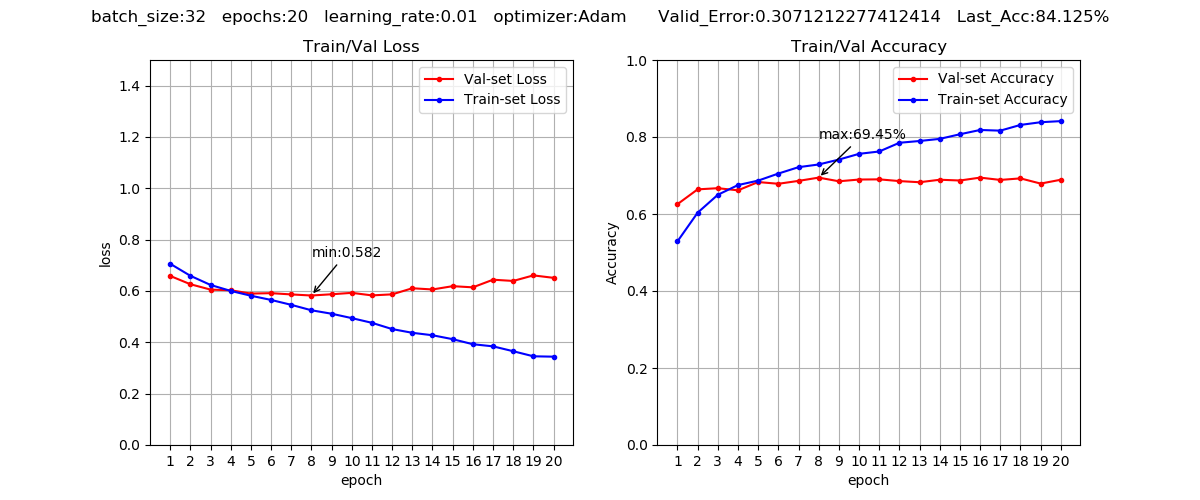
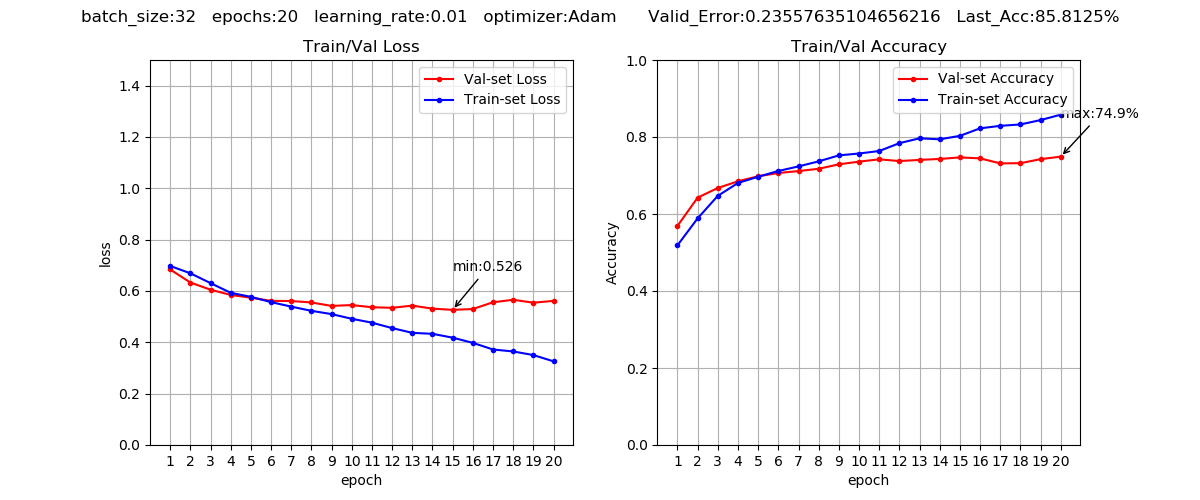
Last Accuracy: 0.858125 Valid error: 0.23557635104656216

diff --git a/main.py b/main.py
@@ -25,8 +25,8 @@ freq = 440  # Hz
 
 config = tf.ConfigProto()
 
-#config.gpu_options.allow_growth = True
-config.gpu_options.per_process_gpu_memory_fraction = 0.8
+config.gpu_options.allow_growth = True
+#config.gpu_options.per_process_gpu_memory_fraction = 0.4
 
 session = tf.Session(config=config)
 
@@ -84,8 +84,8 @@ class ModelMgr():
         train_y = self.y_train.reshape((e,f))
 
 
-        rf = RandomForestRegressor()
-        rf = rf.fit(train_x, train_y)
+        # rf = RandomForestRegressor()
+        # rf = rf.fit(train_x, train_y)
 
         history = model.fit(self.x_train, self.y_train,
                             batch_size=hp['batch_size'],
@@ -130,242 +130,31 @@ class ModelMgr():
         optimizer = Adam(lr=1e-3)
         '''
         return hyper
-    # def get_model(self):
-    #     from keras.models import Model
-    #     from keras.layers import Input
-    #     from keras import layers
-    #     i1= Input(shape=(32,32,1))
-    #     nDropout = 0.25
-    #
-    #     model = Sequential()
-    #     model.add(Conv2D(32, (3, 3), padding='same', input_shape=self.x_train.shape[1:], activation='relu'))
-    #     model.add(Dropout(nDropout))
-    #
-    #     model.add(MaxPooling2D(pool_size=(2, 2)))
-    #     model.add(Dropout(nDropout))
-    #
-    #
-    #
-    #     # model.add(Dense(len(self.target_class)))
-    #     # model.add(Activation('softmax'))
-    #     model = Flatten()(model)
-    #
-    #     model1 = Model(inputs=i1, outputs=model)
-    #
-    #     i2 = Input(shape=(32, 32, 1))
-    #     nDropout = 0.5
-    #
-    #     nUnit = 1024
-    #     model.add(Flatten())
-    #
-    #     model.add(Dense(128, activation='relu', kernel_initializer='glorot_uniform', bias_initializer='glorot_uniform'))
-    #     model.add(Dropout(nDropout))
-    #     model.add(Dense(128, activation='relu', kernel_initializer='glorot_uniform', bias_initializer='glorot_uniform'))
-    #     model.add(Dropout(nDropout))
-    #     model = Flatten()(model)
-    #
-    #     model2 = Model(inputs=i2, outputs=model)
-    #
-    #
-    #     merge = layers.concatenate([model1(i1), model2(i2)])
-    #     last = Dense(10, activation='relu')(merge)
-    #     model = Model([i1, i2], last)
-    #
-    #     return model
+
     def get_model(self):
             nDropout = 0.25
             model = Sequential()
             model.add(Conv2D(32, (3, 3), padding='same', input_shape=self.x_train.shape[1:], activation='relu'))
-            model.add(Dropout(nDropout))
-            # model.add(Conv2D(32, (3, 3), activation='relu'))
-            # model.add(Dropout(nDropout))
+            model.add(MaxPooling2D(pool_size=(2, 2)))
+            model.add(Conv2D(32, (3, 3), activation='relu'))
             model.add(MaxPooling2D(pool_size=(2, 2)))
             model.add(Dropout(nDropout))
-            '''
-            non
-            Last Accuracy: 0.955875
-    
-    Valid error: 0.7702255444414914
-            mapool
-            Last Accuracy: 0.975875
-            
-    
-    Valid error: 1.0640612498112023
-    
-    down conv
-            Last Accuracy: 0.971125
-    
-    Valid error: 0.9136082481145859
-            '''
             # model.add(Conv2D(64, (3, 3), padding='same', activation='relu'))
             # model.add(Conv2D(64, (3, 3), activation='relu'))
             # model.add(MaxPooling2D(pool_size=(2, 2)))
             # model.add(Dropout(0.25))
 
             nDropout = 0.5
-            '''
-    0.5
-    Last Accuracy: 0.883
-    
-    Valid error: 0.42263877797126775
-    
-     0.6
-    Last Accuracy: 0.663125
-    
-    Valid error: 0.0037601342201233345
-    
-    0.4
-    Last Accuracy: 0.956875
-    
-    Valid error: 0.9670988367386162
-    
-            '''
 
-            nUnit = 1024
             model.add(Flatten())
-            # model.add(Dense(1024, activation='relu', kernel_initializer='glorot_uniform', bias_initializer='glorot_uniform'))
-            # model.add(Dropout(nDropout))
-            # model.add(Dense(512, activation='relu', kernel_initializer='glorot_uniform', bias_initializer='glorot_uniform'))
-            # model.add(Dropout(nDropout))
-            # model.add(Dense(512, activation='relu', kernel_initializer='glorot_uniform', bias_initializer='glorot_uniform'))
-            # model.add(Dropout(nDropout))
-            model.add(Dense(128, activation='relu', kernel_initializer='glorot_uniform', bias_initializer='glorot_uniform'))
-            model.add(Dropout(nDropout))
-            model.add(Dense(128, activation='relu', kernel_initializer='glorot_uniform', bias_initializer='glorot_uniform'))
-            model.add(Dropout(nDropout))
-            '''
-                    model.add(Dense(2048, activation='relu', kernel_initializer = 'glorot_uniform', bias_initializer = 'glorot_uniform'))
-                    model.add(Dropout(nDropout))
-                    model.add(Dense(1024, activation='relu', kernel_initializer = 'glorot_uniform', bias_initializer = 'glorot_uniform'))
-                    model.add(Dropout(nDropout))
-                    model.add(Dense(512, activation='relu', kernel_initializer = 'glorot_uniform', bias_initializer = 'glorot_uniform'))
-                    model.add(Dropout(nDropout))
-                    model.add(Dense(256, activation='relu', kernel_initializer = 'glorot_uniform', bias_initializer = 'glorot_uniform'))
-                    model.add(Dropout(nDropout))
-                    model.add(Dense(128, activation='relu', kernel_initializer = 'glorot_uniform', bias_initializer = 'glorot_uniform'))
-                    model.add(Dropout(nDropout))
-            
-    Last Accuracy: 0.87975
-    
-    Valid error: 0.5065860754251481
-    
-            model.add(Dense(128, activation='relu', kernel_initializer='glorot_uniform', bias_initializer='glorot_uniform'))
-            model.add(Dropout(nDropout))
             model.add(Dense(256, activation='relu', kernel_initializer='glorot_uniform', bias_initializer='glorot_uniform'))
             model.add(Dropout(nDropout))
-            model.add(Dense(512, activation='relu', kernel_initializer='glorot_uniform', bias_initializer='glorot_uniform'))
+            model.add(Dense(64, activation='relu', kernel_initializer='glorot_uniform', bias_initializer='glorot_uniform'))
             model.add(Dropout(nDropout))
-            model.add(Dense(1024, activation='relu', kernel_initializer='glorot_uniform', bias_initializer='glorot_uniform'))
-            model.add(Dropout(nDropout))
-            model.add(Dense(2048, activation='relu', kernel_initializer='glorot_uniform', bias_initializer='glorot_uniform'))
-            model.add(Dropout(nDropout))
-    Last Accuracy: 0.890125
-    
-    Valid error: 0.5184675998985767
-            '''
 
-            '''
-            
-            128
-            Last Accuracy: 0.747125
-            
-            Valid error: 0.05675763714313509
-            
-            256
-            Last Accuracy: 0.842625
-            
-            Valid error: 0.4056897324025631
-            
-            512
-            Last Accuracy: 0.9385
-            
-            Valid error: 0.7423957723230123
-            
-            1024
-            Last Accuracy: 0.966875
-            
-            Valid error: 1.5335488475980237
-            '''
-
-
-            # model.add(Dropout(nDropout))
-            # model.add(Dense(256, activation='relu', kernel_initializer = 'glorot_uniform', bias_initializer = 'glorot_uniform'))
-            # model.add(Dropout(nDropout))
-            # model.add(Dense(256, activation='relu', kernel_initializer = 'glorot_uniform', bias_initializer = 'glorot_uniform'))
-            # model.add(Dropout(nDropout))
-
-            # model.add(Dense(512, activation='relu', kernel_initializer='glorot_normal', bias_initializer='glorot_uniform'))
-            # model.add(Dropout(nDropout))
             model.add(Dense(len(self.target_class)))
             model.add(Activation('softmax'))
             model.compile(loss='categorical_crossentropy', optimizer='adam', metrics=['accuracy'])
-
-            '''
-            model.add(Dense(128, activation='relu', kernel_initializer='glorot_uniform'))
-            model.add(Dropout(nDropout))
-            model.add(Dense(516, activation='relu', kernel_initializer='glorot_uniform'))
-            model.add(Dropout(nDropout))
-            사용시 
-            Last Accuracy: 0.930375
-            Valid error: 0.63189967565611
-            
-            model.add(Dense(256, activation='relu', kernel_initializer = 'glorot_uniform', bias_initializer = 'glorot_uniform'))
-            model.add(Dropout(nDropout))
-            model.add(Dense(256, activation='relu', kernel_initializer = 'glorot_uniform', bias_initializer = 'glorot_uniform'))
-            model.add(Dropout(nDropout))
-            model.add(Dense(256, activation='relu', kernel_initializer = 'glorot_uniform', bias_initializer = 'glorot_uniform'))
-            model.add(Dropout(nDropout))
-            model.add(Dense(256, activation='relu', kernel_initializer = 'glorot_uniform', bias_initializer = 'glorot_uniform'))
-            model.add(Dropout(nDropout))
-            model.add(Dense(256, activation='relu', kernel_initializer = 'glorot_uniform', bias_initializer = 'glorot_uniform'))
-            사용시
-            Last Accuracy: 0.84875
-    
-            Valid error: 0.2601667023301124
-            
-            
-            model.add(Dense(256, activation='relu', kernel_initializer = 'glorot_uniform', bias_initializer = 'glorot_uniform'))
-            model.add(Dropout(nDropout))
-            model.add(Dense(256, activation='relu', kernel_initializer = 'glorot_uniform', bias_initializer = 'glorot_uniform'))
-            model.add(Dropout(nDropout))
-            model.add(Dense(256, activation='relu', kernel_initializer = 'glorot_uniform', bias_initializer = 'glorot_uniform'))
-            사용시
-            Last Accuracy: 0.949625
-    
-            Valid error: 0.691403053805232
-            
-                    model.add(Dense(256, activation='relu', kernel_initializer = 'glorot_uniform', bias_initializer = 'glorot_uniform'))
-            model.add(Dropout(nDropout))
-            model.add(Dense(256, activation='relu', kernel_initializer = 'glorot_uniform', bias_initializer = 'glorot_uniform'))
-            model.add(Dropout(nDropout))
-            model.add(Dense(256, activation='relu', kernel_initializer = 'glorot_uniform', bias_initializer = 'glorot_uniform'))
-            model.add(Dropout(nDropout))
-            model.add(Dense(256, activation='relu', kernel_initializer = 'glorot_uniform', bias_initializer = 'glorot_uniform'))
-            사용시
-            Last Accuracy: 0.94575
-    
-    Valid error: 0.7000599619597196
-            '''
-
-            # model = Sequential()
-            ################
-            '''
-            (2) 모델 코드를 완성해주세요.
-            model.add(...)
-            '''
-            ################
-            '''
-            주의사항
-            1. 모델의 입력 데이터 크기는 (batch_size, 32, 32, 1) # 고양이 or 강아지 흑백 사진
-               출력 데이터 크기는 (batch_size, 2) # 고양이일 확률, 강아지일 확률
-            2. 최초 Dense() 사용 시, Flatten()을 먼저 사용해야함
-            3. out of memory 오류 시,
-                메모리 부족에 의한 오류임.
-                batch_size를 줄이거나, 모델 구조의 파라미터(ex. 유닛수)를 줄여야함
-            4. BatchNormalization() 사용 금지
-    
-            기타 문의 : sdh9446@gmail.com (수업조교)
-            '''
             return model
 
 
